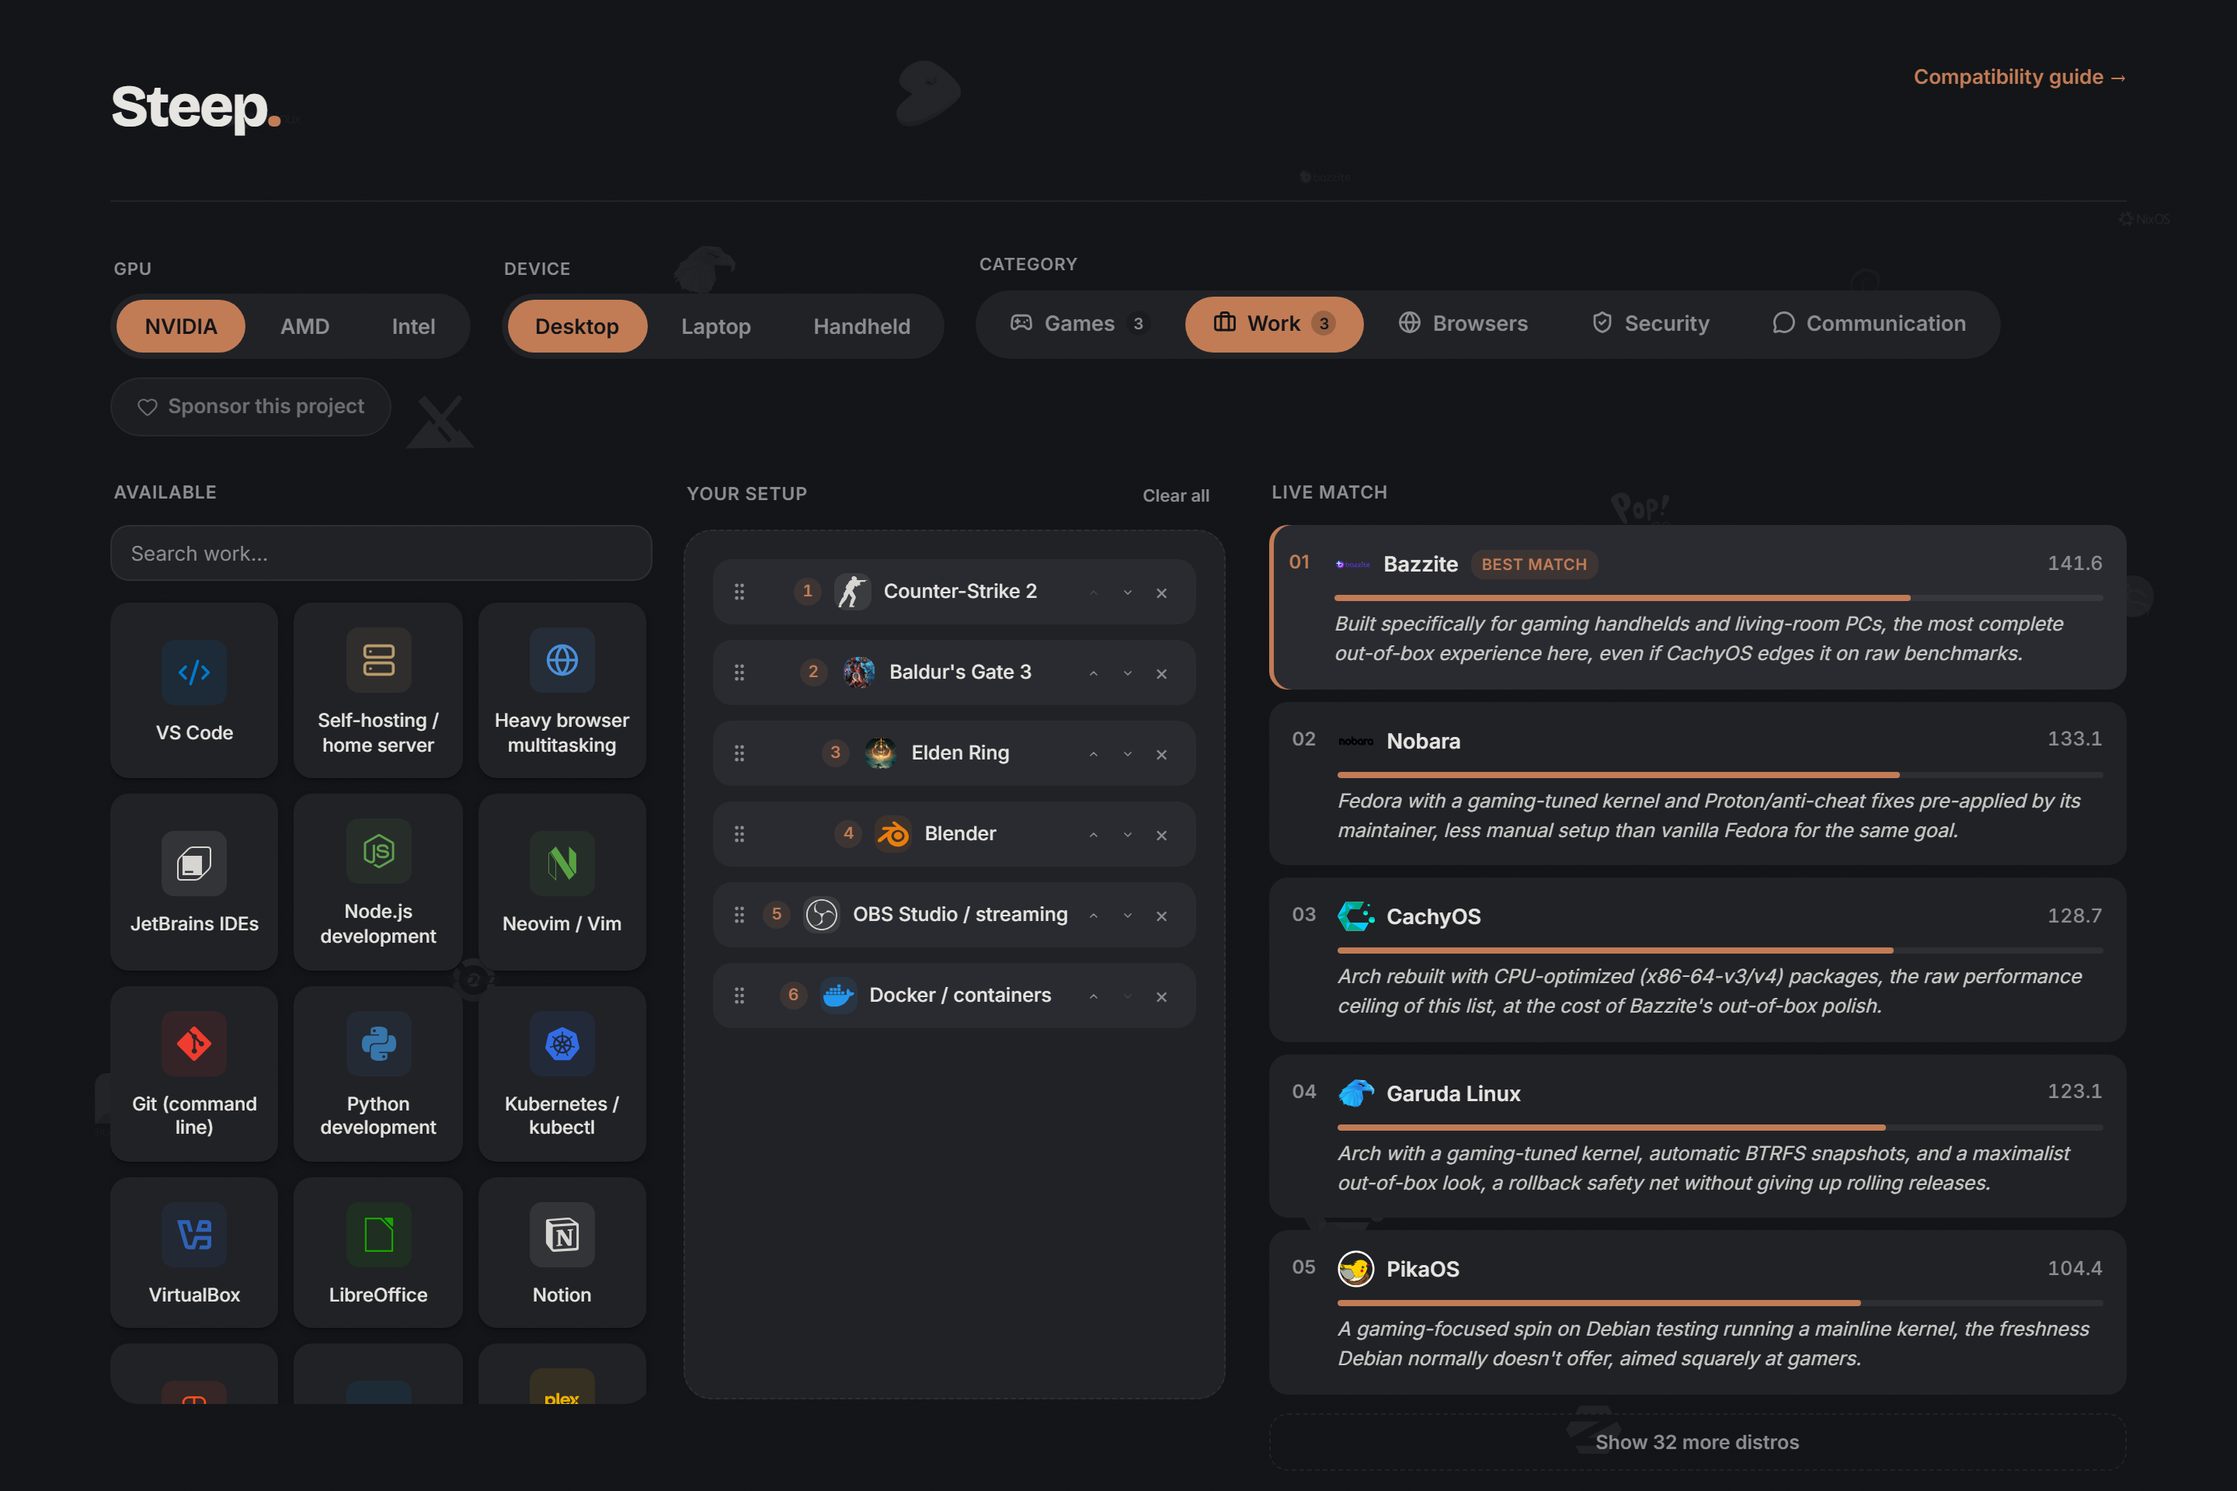
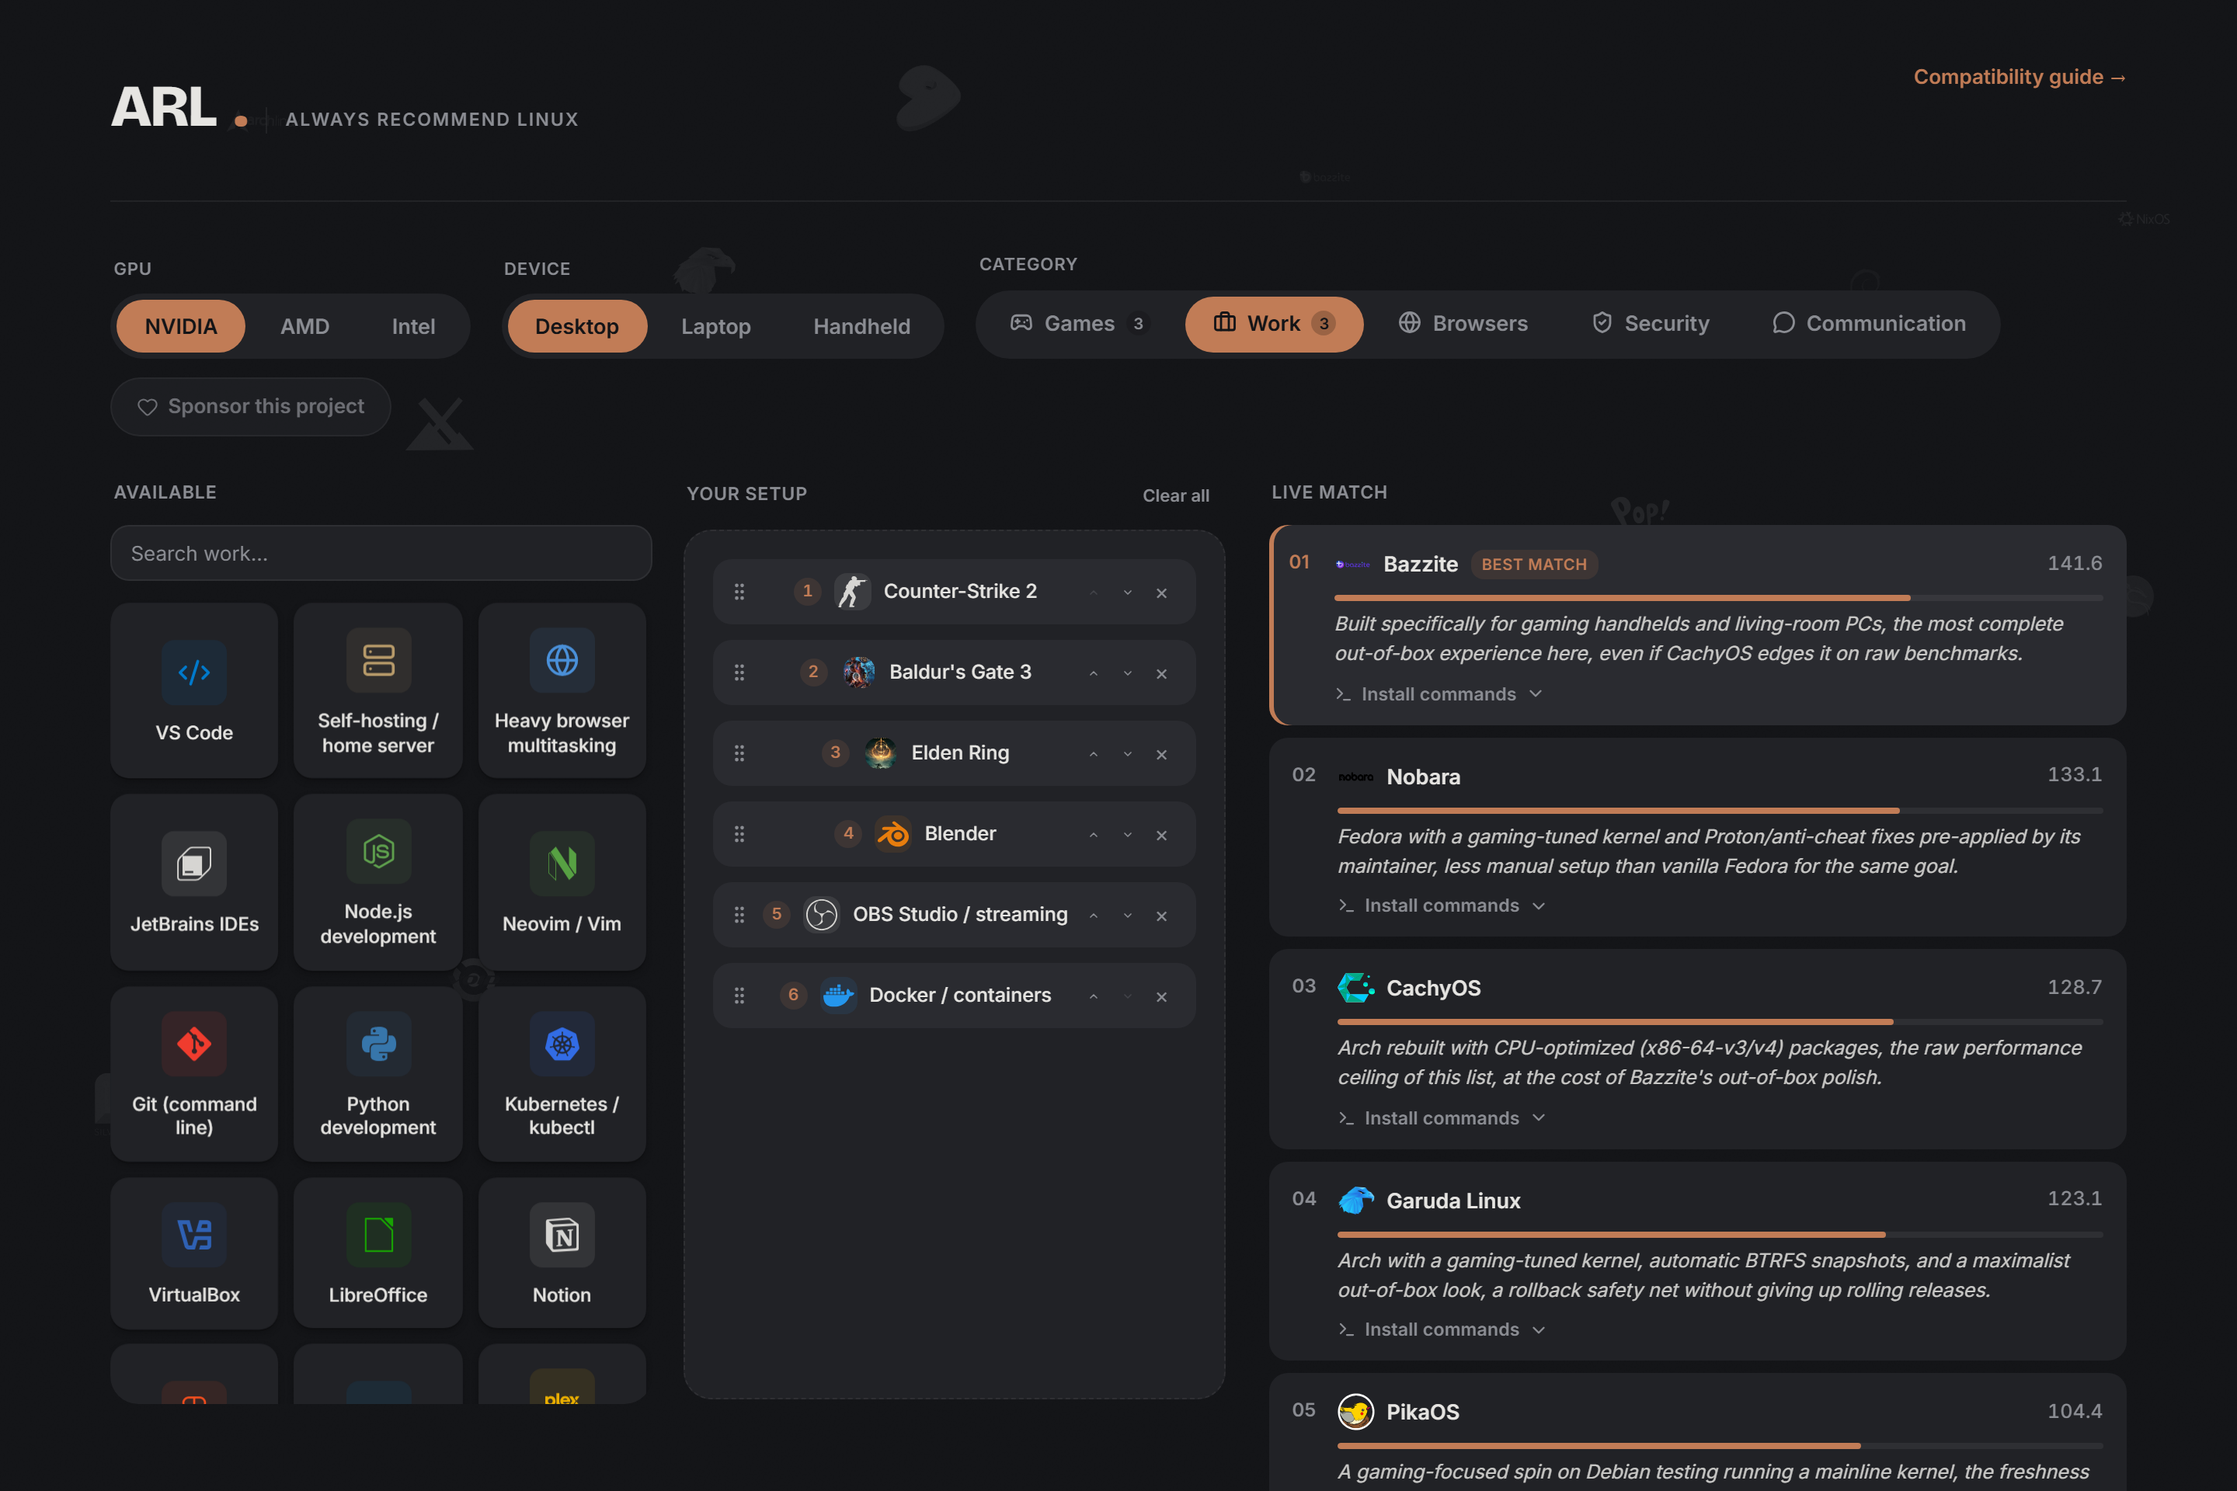
Fix drag duplication bug, expand install checklist, rebrand to ARL
- Fix a real bug: dragging an item from Available into Your setup left a
  duplicate behind. Root cause was whileHover/whileTap gesture tracking on
  pool cards fighting dnd-kit's pointer capture mid-drag, which left
  framer-motion's exit animation permanently stuck. Removed the gesture
  props (replaced with plain CSS hover/active) and switched both list
  AnimatePresences to popLayout.
- Custom/unverified items no longer silently vanish from the per-distro
  install checklist; they now show an explicit "unverified" note.
- Added a "copy all" button per distro to copy the whole checklist as one
  script instead of one command at a time.
- Added Open Graph/Twitter Card meta tags with a real screenshot so shared
  links get a proper preview.
- Small accessibility pass: real aria-label on the category search input,
  title tooltips on truncated item cards; confirmed dnd-kit's default
  keyboard sensor already supports full keyboard drag-and-drop.
- Rebranded Steep to ARL (Always Recommend Linux): big wordmark + small
  tagline lockup in the masthead, new favicon, updated meta tags, README,
  and SPONSOR.md, and regenerated all screenshots to match.

Changed region(s): [[0.5625, 0.4375, 0.9375, 1.0], [0.0312, 0.0625, 0.25, 0.0938]]

diff --git a/src/components/ScorePanel.tsx b/src/components/ScorePanel.tsx
@@ -1,6 +1,6 @@
 import { useState } from "react";
 import { motion, AnimatePresence } from "framer-motion";
-import { ChevronDown, Copy, Check, Terminal } from "lucide-react";
+import { ChevronDown, Copy, Check, Terminal, ClipboardCopy } from "lucide-react";
 import { MatchMeter } from "./MatchMeter";
 import { scoreRange, type DistroResult } from "../lib/scoring";
 import { resolveInstall } from "../lib/installGuide";
@@ -27,6 +27,26 @@ function CopyableCommand({ command }: { command: string }) {
   );
 }
 
+function CopyAllButton({ rows }: { rows: { item: Item; resolved: ReturnType<typeof resolveInstall> }[] }) {
+  const [copied, setCopied] = useState(false);
+  const commandRows = rows.filter((r) => r.resolved.command);
+  if (commandRows.length === 0) return null;
+
+  async function handleCopyAll() {
+    const script = commandRows.map(({ item, resolved }) => `# ${item.label}\n${resolved.command}`).join("\n");
+    await navigator.clipboard.writeText(script);
+    setCopied(true);
+    setTimeout(() => setCopied(false), 1500);
+  }
+
+  return (
+    <button type="button" className="install-copy-all" onClick={handleCopyAll}>
+      {copied ? <Check size={12} strokeWidth={2.5} /> : <ClipboardCopy size={12} strokeWidth={2} />}
+      {copied ? "Copied script" : `Copy all ${commandRows.length} command${commandRows.length === 1 ? "" : "s"}`}
+    </button>
+  );
+}
+
 function InstallChecklist({ items, packageManager }: { items: Item[]; packageManager: DistroResult["distro"]["packageManager"] }) {
   const rows = items
     .map((item) => ({ item, resolved: resolveInstall(item, packageManager) }))
@@ -36,6 +56,7 @@ function InstallChecklist({ items, packageManager }: { items: Item[]; packageMan
 
   return (
     <div className="install-checklist">
+      <CopyAllButton rows={rows} />
       {rows.map(({ item, resolved }) => (
         <div key={item.id} className="install-row">
           <span className="install-row-label">{item.label}</span>

diff --git a/index.html b/index.html
@@ -8,13 +8,33 @@
       name="description"
       content="Drag in the games, tools, and preferences you actually use and watch Linux distro match scores update live."
     />
+
+    <meta property="og:type" content="website" />
+    <meta property="og:title" content="ARL — Always Recommend Linux" />
+    <meta
+      property="og:description"
+      content="Drag in the games, tools, and preferences you actually use and watch Linux distro match scores update live. No login, no tracking, no server."
+    />
+    <meta property="og:url" content="https://andrew-most-likely.github.io/Interactive-Linux-distribution-recommendation-app/" />
+    <meta property="og:image" content="https://andrew-most-likely.github.io/Interactive-Linux-distribution-recommendation-app/og-image.png" />
+    <meta property="og:image:width" content="2400" />
+    <meta property="og:image:height" content="1260" />
+
+    <meta name="twitter:card" content="summary_large_image" />
+    <meta name="twitter:title" content="ARL — Always Recommend Linux" />
+    <meta
+      name="twitter:description"
+      content="Drag in the games, tools, and preferences you actually use and watch Linux distro match scores update live."
+    />
+    <meta name="twitter:image" content="https://andrew-most-likely.github.io/Interactive-Linux-distribution-recommendation-app/og-image.png" />
+
     <link rel="preconnect" href="https://fonts.googleapis.com" />
     <link rel="preconnect" href="https://fonts.gstatic.com" crossorigin />
     <link
       href="https://fonts.googleapis.com/css2?family=Bricolage+Grotesque:opsz,wght@12..96,500..800&family=Inter:wght@400;500;600&display=swap"
       rel="stylesheet"
     />
-    <title>Steep</title>
+    <title>ARL — Always Recommend Linux</title>
   </head>
   <body>
     <div id="root"></div>

diff --git a/src/App.css b/src/App.css
@@ -74,6 +74,9 @@
 }
 
 .masthead-title {
+  display: flex;
+  align-items: baseline;
+  gap: 12px;
   font-family: var(--font-display);
   font-weight: 800;
   font-size: 38px;
@@ -82,9 +85,19 @@
   color: var(--text);
 }
 
-.masthead-title::after {
-  content: ".";
+.masthead-mark-dot {
   color: var(--accent);
+}
+
+.masthead-tagline {
+  font-family: var(--font-sans);
+  font-weight: 600;
+  font-size: 11.5px;
+  letter-spacing: 0.09em;
+  text-transform: uppercase;
+  color: var(--text-muted);
+  padding-left: 12px;
+  border-left: 1px solid var(--border-soft);
 }
 
 .masthead-sub {
@@ -542,16 +555,18 @@
   user-select: none;
   touch-action: none;
   box-shadow: var(--shadow-sm);
-  transition: box-shadow 0.25s var(--ease-out), background 0.25s var(--ease-out);
+  transition: box-shadow 0.25s var(--ease-out), background 0.25s var(--ease-out), transform 0.15s var(--ease-out);
 }
 
 .item-card:hover {
   background: var(--surface-raised);
   box-shadow: var(--shadow-md), 0 0 0 1px var(--accent-dim);
+  transform: translateY(-4px) scale(1.03);
 }
 
 .item-card:active {
   cursor: grabbing;
+  transform: scale(0.96);
 }
 
 .item-card.dragging {
@@ -1031,6 +1046,26 @@
   display: flex;
   flex-direction: column;
   gap: 8px;
+}
+
+.install-copy-all {
+  display: flex;
+  align-items: center;
+  gap: 5px;
+  align-self: flex-start;
+  padding: 4px 9px;
+  background: var(--accent-dim);
+  border: 1px solid transparent;
+  border-radius: var(--radius-pill);
+  color: var(--accent);
+  font-size: 11px;
+  font-weight: 600;
+  cursor: pointer;
+  transition: border-color 0.2s var(--ease-out);
+}
+
+.install-copy-all:hover {
+  border-color: var(--accent-dim);
 }
 
 .install-row-label {

diff --git a/src/App.tsx b/src/App.tsx
@@ -151,7 +151,10 @@ export default function App() {
     <div className="page">
       <header className="masthead">
         <div className="masthead-content">
-          <h1 className="masthead-title">Steep</h1>
+          <h1 className="masthead-title">
+            ARL<span className="masthead-mark-dot">.</span>
+            <span className="masthead-tagline">Always Recommend Linux</span>
+          </h1>
         </div>
         <div className="masthead-links">
           <Link to="/distros" className="masthead-link">
@@ -209,6 +212,7 @@ export default function App() {
                   <input
                     type="text"
                     className="search-input"
+                    aria-label={`Search ${categories.find((c) => c.id === activeCategory)?.label.toLowerCase()}`}
                     placeholder={`Search ${categories.find((c) => c.id === activeCategory)?.label.toLowerCase()}…`}
                     value={searchQuery}
                     onChange={(e) => setSearchQuery(e.target.value)}

diff --git a/src/components/DraggableItem.tsx b/src/components/DraggableItem.tsx
@@ -17,15 +17,13 @@ export function DraggableItem({ item, onAdd }: DraggableItemProps) {
   const isPhoto = icon.kind === "photo";
 
   return (
-    <div ref={setNodeRef} {...listeners} {...attributes} onClick={() => onAdd(item.id)}>
+    <div ref={setNodeRef} {...listeners} {...attributes} onClick={() => onAdd(item.id)} title={item.label}>
       <motion.div
         layout
         className={`item-card${isDragging ? " dragging" : ""}`}
         initial={{ opacity: 0, y: 8 }}
         animate={{ opacity: 1, y: 0 }}
         exit={{ opacity: 0, scale: 0.9 }}
-        whileHover={{ y: -4, scale: 1.03 }}
-        whileTap={{ scale: 0.96 }}
         transition={{ duration: 0.3, ease: [0.16, 1, 0.3, 1] }}
       >
         <Plus className="item-add-hint" size={13} strokeWidth={2.5} aria-hidden="true" />

diff --git a/src/lib/installGuide.ts b/src/lib/installGuide.ts
@@ -64,6 +64,10 @@ function resolveGameInstall(item: Item, pm: PackageManager): ResolvedInstall {
 // verified, a Flatpak command as the universal fallback, or an honest note
 // when neither applies (vendor-only .deb/.rpm, web-only, no Linux client).
 export function resolveInstall(item: Item, packageManager: PackageManager): ResolvedInstall {
+  if (item.custom) {
+    return { note: "Unverified — typed in manually, no verified Linux support or install path" };
+  }
+
   if (item.category === "games") return resolveGameInstall(item, packageManager);
 
   const install = item.install;

diff --git a/src/components/DropZone.tsx b/src/components/DropZone.tsx
@@ -23,7 +23,7 @@ export function DropZone({ pickedItems, onRemove, onMove }: DropZoneProps) {
         </div>
       )}
       <SortableContext items={pickedItems.map((i) => i.id)} strategy={verticalListSortingStrategy}>
-        <AnimatePresence initial={false}>
+        <AnimatePresence initial={false} mode="popLayout">
           {pickedItems.map((item, index) => (
             <SetupChip
               key={item.id}

diff --git a/src/components/Pool.tsx b/src/components/Pool.tsx
@@ -13,7 +13,7 @@ export function Pool({ items, onAdd }: PoolProps) {
 
   return (
     <div ref={setNodeRef} className={`item-list${isOver ? " over" : ""}`}>
-      <AnimatePresence initial={false}>
+      <AnimatePresence initial={false} mode="popLayout">
         {items.map((item) => (
           <DraggableItem key={item.id} item={item} onAdd={onAdd} />
         ))}

diff --git a/src/CompatibilityPage.tsx b/src/CompatibilityPage.tsx
@@ -12,7 +12,7 @@ export function CompatibilityPage() {
       <header className="masthead">
         <div>
           <Link to="/" className="compat-back-link">
-            ← Back to Steep
+            ← Back to ARL
           </Link>
           <h1 className="masthead-title">Compatibility</h1>
           <p className="masthead-sub">

diff --git a/README.md b/README.md
@@ -1,4 +1,4 @@
-# Steep
+# ARL — Always Recommend Linux
 
 **[Try it live →](https://andrew-most-likely.github.io/Interactive-Linux-distribution-recommendation-app/)**
 
@@ -16,12 +16,12 @@ individually-reasoned explanations of the tradeoffs each one involves.
 No login, no tracking, no server. Everything runs client-side in your
 browser.
 
-![Steep's main picker: drag items into "Your setup" and watch the live match ranking update](docs/screenshots/main-picker.png)
+![ARL's main picker: drag items into "Your setup" and watch the live match ranking update](docs/screenshots/main-picker.png)
 
 ## Why this is different
 
 Most distro-picker sites ask abstract questions ("do you game?") and hand
-back a single flat verdict. Steep instead:
+back a single flat verdict. ARL instead:
 
 - Lets you drag in **specific, named software**, not vague categories
 - Lets you **rank picks by importance** (drag to reorder) so your top
@@ -49,17 +49,23 @@ Then open the URL it prints (usually http://localhost:5173).
 ## Project structure
 
 ```
+config/                # vite.config.ts, tsconfig.app.json/node.json, .oxlintrc.json
+docs/                   # screenshots + internal project notes
+public/                 # favicon, og-image.png, static assets
 src/
   data/
     dimensions.ts     # the underlying axes distros are scored on
     distros.ts        # 37 distros + attribute scores, package manager, blurb
     items.ts          # curated draggable items per category (games, work,
-                       # browsers, security, communication)
+                       # browsers, security, communication), with real
+                       # per-distro install data on each one
     hardware.ts       # GPU vendor + device type options and their weighting
     compatibility.ts  # per-distro driver/hardware notes shown on /distros
     icons.tsx         # real cover art / logos / brand icons per item & distro
   lib/
-    scoring.ts         # turns picks + GPU + device + ranking into distro scores
+    scoring.ts          # turns picks + GPU + device + ranking into distro scores
+    installGuide.ts      # resolves each item's install command for a distro's
+                          # package manager (native package, Flatpak, or a note)
   components/
     MatchMeter.tsx     # signature score visualization
     Pool.tsx           # droppable "Available" list (click or drag to add)
@@ -71,7 +77,7 @@ src/
     FooterLinks.tsx
     SponsorAd.tsx
     FloatingShapes.tsx  # ambient background animation
-    ScorePanel.tsx
+    ScorePanel.tsx        # results list + per-distro install checklist
   App.tsx                 # the matcher (route "/")
   CompatibilityPage.tsx    # distro compatibility reference (route "/distros")
   main.tsx                 # HashRouter + route table
@@ -116,7 +122,7 @@ every push. If you fork it:
 
 1. In your fork's Settings → Pages, set the source to "GitHub Actions."
 2. If your Pages site will live at `https://<user>.github.io/<repo>/` (not
-   a custom domain at the root), update `base` in `vite.config.ts` to
+   a custom domain at the root), update `base` in `config/vite.config.ts` to
    `'/<repo>/'`.
 3. Push to `main`, the workflow builds and deploys automatically.
 

diff --git a/.github/SPONSOR.md b/.github/SPONSOR.md
@@ -1,6 +1,6 @@
-# Sponsor Steep
+# Sponsor ARL
 
-Steep is a free, open-source, ad-supported-in-name-only Linux distro
+ARL (Always Recommend Linux) is a free, open-source, ad-supported-in-name-only Linux distro
 picker: no login, no tracking, no server, everything runs in your
 browser. If it's been useful (or you just want to support the project),
 you can sponsor its development on GitHub Sponsors:
